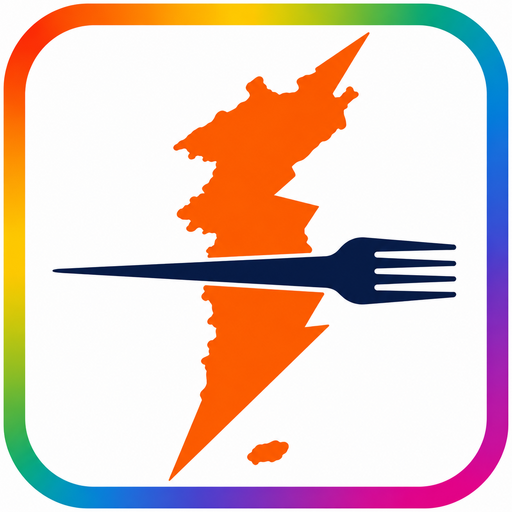
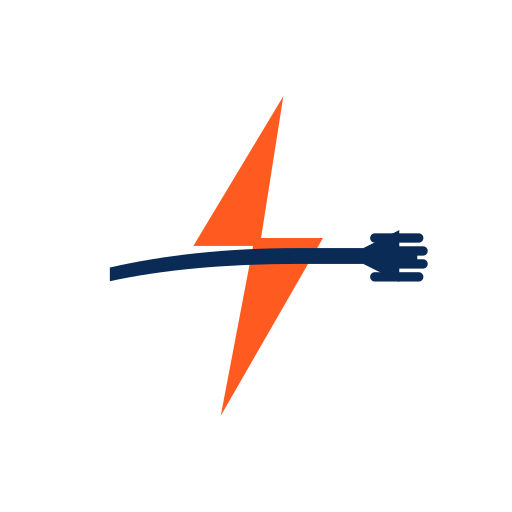
Android 런처 아이콘 안전 여백 보정 (#83)
삼성 등 제조사 런처 마스크에서 로고 양끝이 잘리지 않도록 전용 maskable 아이콘에 안전 여백을 적용합니다.

diff --git a/sw.js b/sw.js
@@ -1,6 +1,6 @@
 'use strict';
 
-const CACHE_NAME = 'daedong-yeosu-app-shell-v27-store-card-touchstart-intent-guard';
+const CACHE_NAME = 'daedong-yeosu-app-shell-v28-android-maskable-safe-zone';
 const RUNTIME_CACHE = 'daedong-yeosu-runtime-v2-mobile-photo-delivery';
 const CACHEABLE_DESTINATIONS = new Set(['image', 'style', 'script', 'font']);
 const APP_SHELL = [
